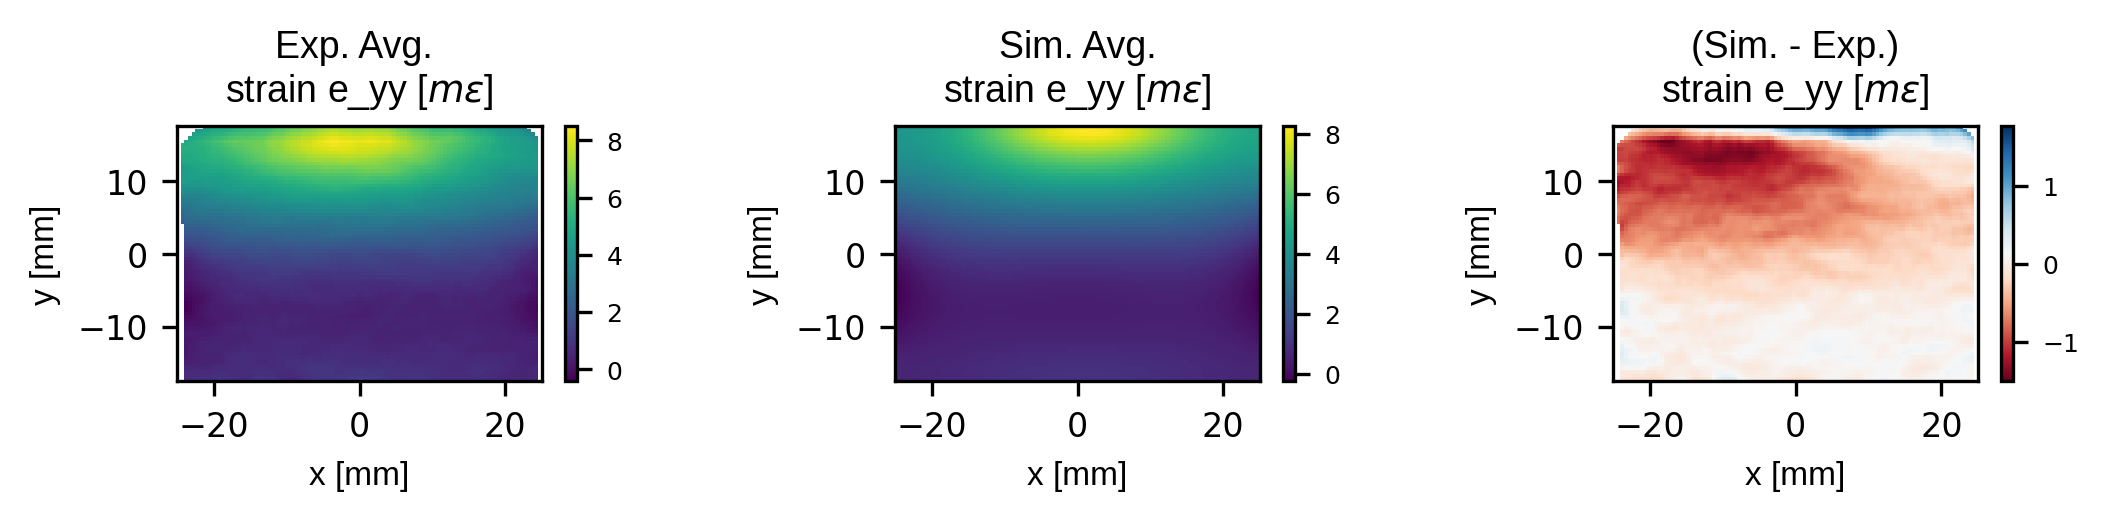
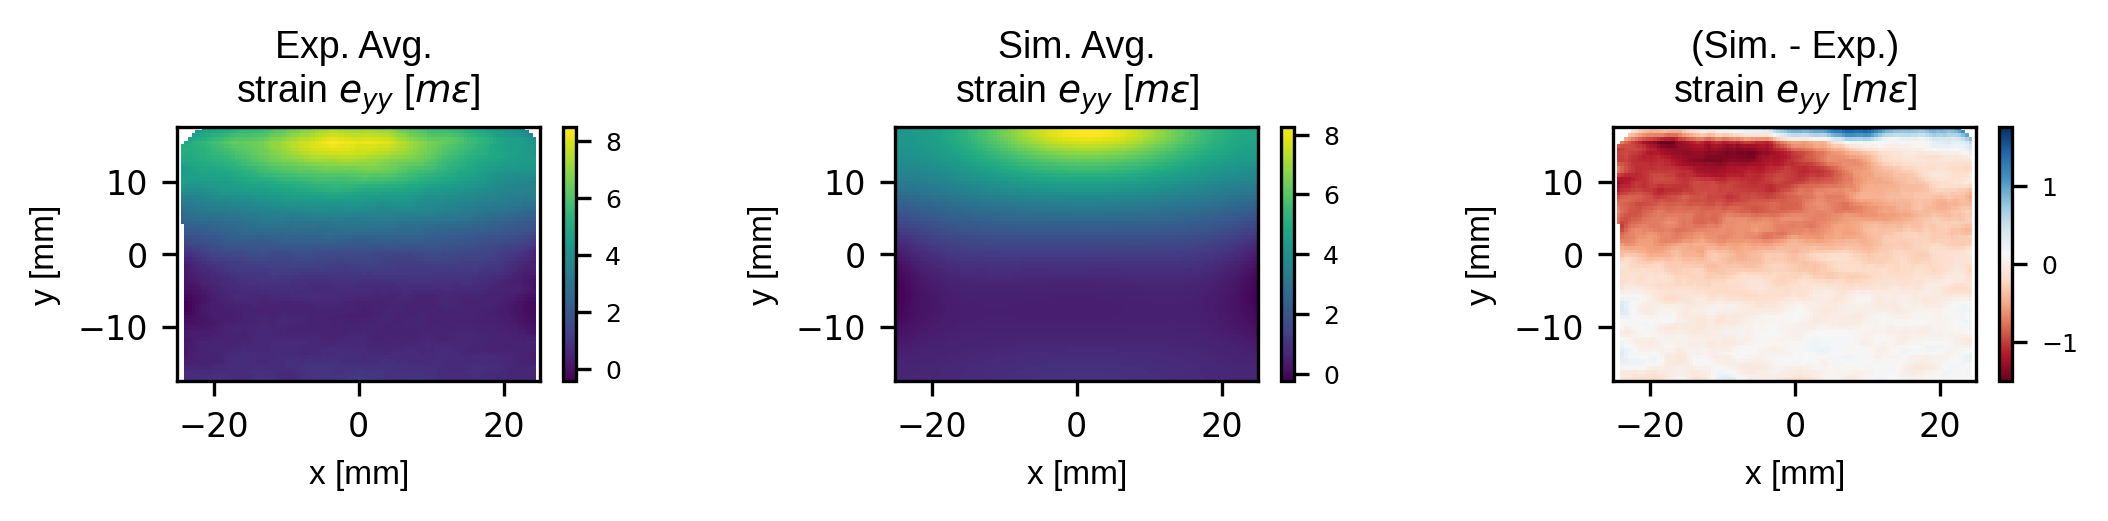
Updated strain figures for BSSM

diff --git a/scripts/main_dic_strain_pulses211_newcoords.py b/scripts/main_dic_strain_pulses211_newcoords.py
@@ -41,6 +41,7 @@ def main() -> None:
 
     FIELD_UNIT_CONV = 1e3
     FIELD_UNIT_STR = r"$m\epsilon$"
+    FIELD_AX_STRS = (r"$e_{xx}$",r"$e_{yy}$",r"$e_{xy}$")
 
     #---------------------------------------------------------------------------
     # SIM: constants
@@ -349,7 +350,7 @@ def main() -> None:
             image = ax.imshow(exp_strain_grid,
                               extent=(sim_x_min,sim_x_max,sim_y_min,sim_y_max))
             #ax.scatter(exp_coords[frame,:,0],exp_coords[frame,:,1])
-            plt.title(f"exp. strain, e_{STRAIN_COMP_STRS[aa]} [{FIELD_UNIT_STR}]")
+            plt.title(f"exp. strain, {FIELD_AX_STRS[aa]} [{FIELD_UNIT_STR}]")
             plt.colorbar(image)
             plt.savefig(
                 save_path/f"exp{DIC_PULSES[EXP_IND]}_map_{SIM_TAG}_strain_{STRAIN_COMP_STRS[aa]}.png")
@@ -364,7 +365,7 @@ def main() -> None:
             fig,ax = plt.subplots()
             image = ax.imshow(sim_strain_grid,extent=(sim_x_min,sim_x_max,sim_y_min,sim_y_max))
             #ax.scatter(sim_coords[:,0],sim_coords[:,1])
-            plt.title(f"sim. strain, e_{STRAIN_COMP_STRS[aa]} [{FIELD_UNIT_STR}]")
+            plt.title(f"sim. strain, {FIELD_AX_STRS[aa]} [{FIELD_UNIT_STR}]")
             plt.colorbar(image)
             save_fig_path = (save_path/f"sim_map_{SIM_TAG}_strain_{STRAIN_COMP_STRS[aa]}.png")
             fig.savefig(save_fig_path,dpi=300,format="png",bbox_inches="tight")
@@ -416,7 +417,7 @@ def main() -> None:
         print("Plotting avg. strain maps and sim-exp diff.")
 
         for ii,ss in zip(ax_inds,ax_strs):
-            field_str = f"strain e_{ss} [{FIELD_UNIT_STR}]"
+            field_str = f"strain {FIELD_AX_STRS[ii]} [{FIELD_UNIT_STR}]"
 
             (fig,ax) = vm.plot_avg_field_maps_nosave(
                 sim_coords,
@@ -432,7 +433,7 @@ def main() -> None:
                          / f"exp{DIC_PULSES[EXP_IND]}_{SIM_TAG}_strain_{ss}_comp.png")
             fig.savefig(save_fig_path,dpi=300,format="png",bbox_inches="tight")
 
-            field_str = f"strain e_{ss} [{FIELD_UNIT_STR}]"
+            field_str = f"strain {FIELD_AX_STRS[ii]} [{FIELD_UNIT_STR}]"
             (fig,ax) = vm.plot_avg_field_maps_nosave(
                 sim_coords,
                 sim_strain_avg,
@@ -620,7 +621,7 @@ def main() -> None:
 
             this_coord = coords_common[mavm_inds[cc],:]
             title_str = f"(x,y)=({this_coord[0]:.2f},{-1*this_coord[1]:.2f})"
-            ax_str = f"sim strain {STRAIN_COMP_STRS[cc]} [{FIELD_UNIT_STR}]"
+            ax_str = f"sim strain {FIELD_AX_STRS[cc]} [{FIELD_UNIT_STR}]"
             axs.set_title(title_str,fontsize=plot_opts.font_head_size)
             axs.set_xlabel(ax_str,fontsize=plot_opts.font_ax_size)
             axs.set_ylabel("Probability",fontsize=plot_opts.font_ax_size)
@@ -663,7 +664,7 @@ def main() -> None:
 
             this_coord = coords_common[mavm_inds[cc],:]
             title_str = f"(x,y)=({this_coord[0]:.2f},{-1*this_coord[1]:.2f})"
-            ax_str = f"strain e_{STRAIN_COMP_STRS[cc]} [{FIELD_UNIT_STR}]"
+            ax_str = f"strain {FIELD_AX_STRS[cc]} [{FIELD_UNIT_STR}]"
             axs.set_title(title_str,fontsize=plot_opts.font_head_size)
             axs.set_xlabel(ax_str,fontsize=plot_opts.font_ax_size)
             axs.set_ylabel("Probability",fontsize=plot_opts.font_ax_size)
@@ -797,7 +798,7 @@ def main() -> None:
 
         this_coord = coords_common[mavm_inds[cc],:]
         title_str = f"(x,y)=({this_coord[0]:.2f},{-1*this_coord[1]:.2f})"
-        ax_str = f"strain e_{STRAIN_COMP_STRS[cc]} [{FIELD_UNIT_STR}]"
+        ax_str = f"strain {FIELD_AX_STRS[cc]} [{FIELD_UNIT_STR}]"
         axs.set_title(title_str,fontsize=plot_opts.font_head_size)
         axs.set_xlabel(ax_str,fontsize=plot_opts.font_ax_size)
         axs.set_ylabel("Probability",fontsize=plot_opts.font_ax_size)
@@ -852,7 +853,7 @@ def main() -> None:
 
         this_coord = coords_common[mavm_inds[cc],:]
         title_str = f"(x,y)=({this_coord[0]:.2f},{-1*this_coord[1]:.2f})"
-        ax_str = f"strain e_{STRAIN_COMP_STRS[cc]} [{FIELD_UNIT_STR}]"
+        ax_str = f"strain {FIELD_AX_STRS[cc]} [{FIELD_UNIT_STR}]"
         axs.set_title(title_str,fontsize=plot_opts.font_head_size)
         axs.set_xlabel(ax_str,fontsize=plot_opts.font_ax_size)
         axs.set_ylabel("Probability",fontsize=plot_opts.font_ax_size)
@@ -1013,77 +1014,192 @@ def main() -> None:
     # Plot MAVM at follow up points
     # NOTE: y coord should be -'ve here to get to the top of block
     # NOTE: coord is flipped in cdf plots to make it look consistent
-    find_pts_yy = np.array(((-20.46,-9.92),
-                            (-21,-7.39),
-                            (20,-13),
-                            (-13,-12),))
+    find_pts = {}
+    find_pts["yy"] = np.array(((-20.0,-12.0),
+                               (20,-12),))
+    find_pts["xx"] = np.array(((-20.0,-12.0),
+                               (20,-12),))
+    find_pts["xy"] = np.array(((-15.0,0.0),
+                               (15.0,0.0)))
 
-    mavm_pts_yy = np.zeros((find_pts_yy.shape[0],),dtype=np.uintp)
-    for pp in range(find_pts_yy.shape[0]):
-        mavm_pts_yy[pp] = vm.find_nearest_points(coords_common,
-                                                    find_pts_yy[pp,:],
-                                                    k=3)[0]
+
+    mavm_pts = {}
+    for cc in STRAIN_COMP_STRS:
+        this_mavm_pts = np.zeros((find_pts[cc].shape[0],),dtype=np.uintp)
+        for pp in range(find_pts[cc].shape[0]):
+            this_mavm_pts[pp] = vm.find_nearest_points(coords_common,
+                                                        find_pts[cc][pp,:],
+                                                        k=3)[0]
+        mavm_pts[cc] = this_mavm_pts
 
     # mavm_pts_yy = vm.find_nearest_points(coords_common,
     #                                      np.array((-16.79,-8.73)),
     #                                      k=2)
 
     print(80*"-")
-    print(f"{mavm_pts_yy=}")
+    print(f"{mavm_pts['xx']=}")
+    print(f"{mavm_pts['yy']=}")
+    print(f"{mavm_pts['xy']=}")
     print(80*"-")
 
-    cc: int = 1 # xx strain component
-    for pp in mavm_pts_yy:
-        fig,axs=plt.subplots(1,1,
-                figsize=plot_opts.single_fig_size_landscape,
-                layout="constrained")
-        fig.set_dpi(plot_opts.resolution)
 
-        # SIM CDFS
-        max_e = sim_cdf_eind['max'][pp,cc]
-        axs.ecdf(sim_strain_common[max_e,:,pp,cc]
-                ,ls="--",color=sim_c,linewidth=plot_opts.lw,
-                label="sim.")
+    #cc: int = 1 # xx strain component
+    for cc,aa in enumerate(STRAIN_COMP_STRS):
+        for pp in mavm_pts[aa]:
+            #-------------------------------------------------------------------
+            # CDF COMP
+            fig,axs=plt.subplots(1,1,
+                    figsize=plot_opts.single_fig_size_landscape,
+                    layout="constrained")
+            fig.set_dpi(plot_opts.resolution)
 
-        min_e = sim_cdf_eind['min'][pp,cc]
-        axs.ecdf(sim_strain_common[min_e,:,pp,cc]
-                ,ls="--",color=sim_c,linewidth=plot_opts.lw)
+            # SIM CDFS
+            max_e = sim_cdf_eind['max'][pp,cc]
+            axs.ecdf(sim_strain_common[max_e,:,pp,cc]
+                    ,ls="--",color=sim_c,linewidth=plot_opts.lw,
+                    label="sim.")
 
-        sim_cdf_high = stats.ecdf(sim_strain_common[max_e,:,pp,cc]).cdf
-        sim_cdf_low = stats.ecdf(sim_strain_common[min_e,:,pp,cc]).cdf
-        axs.fill_betweenx(sim_cdf_high.probabilities,
-                        sim_cdf_low .quantiles,
-                        sim_cdf_high.quantiles,
-                        color=sim_c,
-                        alpha=0.2)
+            min_e = sim_cdf_eind['min'][pp,cc]
+            axs.ecdf(sim_strain_common[min_e,:,pp,cc]
+                    ,ls="--",color=sim_c,linewidth=plot_opts.lw)
 
-        axs.ecdf(exp_strain_common[:,pp,cc]
-                    ,ls="-",color=exp_c,linewidth=plot_opts.lw,
-                    label="exp.")
+            sim_cdf_high = stats.ecdf(sim_strain_common[max_e,:,pp,cc]).cdf
+            sim_cdf_low = stats.ecdf(sim_strain_common[min_e,:,pp,cc]).cdf
+            axs.fill_betweenx(sim_cdf_high.probabilities,
+                            sim_cdf_low .quantiles,
+                            sim_cdf_high.quantiles,
+                            color=sim_c,
+                            alpha=0.2)
 
-        # MAVM
-        mavm_c = "black"
-        axs.plot(mavm_d_minus_cdf_pts[:,pp,cc],# - mavm_d_minus[pp,cc],
-                    mavm_d_minus_cdf_prob[:,pp,cc], label="d-",
-                    ls="--",color=mavm_c,linewidth=plot_opts.lw*1.2)
+            axs.ecdf(exp_strain_common[:,pp,cc]
+                        ,ls="-",color=exp_c,linewidth=plot_opts.lw,
+                        label="exp.")
 
-        axs.plot(mavm_d_plus_cdf_pts[:,pp,cc],# + mavm_d_plus[pp,cc],
-                    mavm_d_plus_cdf_prob[:,pp,cc], label="d+",
-                    ls="-",color=mavm_c,linewidth=plot_opts.lw*1.2)
+            this_coord = coords_common[pp,:]
+            title_str = f"(x,y)=({this_coord[0]:.2f},{-1*this_coord[1]:.2f})"
+            ax_str = f"strain {FIELD_AX_STRS[cc]} [{FIELD_UNIT_STR}]"
+            axs.set_title(title_str,fontsize=plot_opts.font_head_size)
+            axs.set_xlabel(ax_str,fontsize=plot_opts.font_ax_size)
+            axs.set_ylabel("Probability",fontsize=plot_opts.font_ax_size)
+            axs.legend(loc="upper left",fontsize=6)
 
-        # axs.fill_betweenx(mavm_lims[aa]["max"]["F_Y"],
-        #                   mavm_lims[aa]["min"]["F_"] - mavm_lims[aa]["min"]["d-"],
-        #                   mavm_lims[aa]["max"]["F_"] + mavm_lims[aa]["max"]["d+"],
-        #                   color=mavm_c,
-        #                 alpha=0.2)
 
-        this_coord = coords_common[pp,:]
-        title_str = f"(x,y)=({this_coord[0]:.2f},{-1*this_coord[1]:.2f})"
-        ax_str = f"strain e_{STRAIN_COMP_STRS[cc]} [{FIELD_UNIT_STR}]"
-        axs.set_title(title_str,fontsize=plot_opts.font_head_size)
-        axs.set_xlabel(ax_str,fontsize=plot_opts.font_ax_size)
-        axs.set_ylabel("Probability",fontsize=plot_opts.font_ax_size)
-        axs.legend(loc="upper left",fontsize=6)
+            save_fig_path = (save_path
+                / f"mavm_exp{DIC_PULSES[EXP_IND]}_sim{SIM_TAG}_strain_{STRAIN_COMP_STRS[cc]}_cdfsonly.png")
+            fig.savefig(save_fig_path,dpi=300,format="png",bbox_inches="tight")
+
+            #-------------------------------------------------------------------
+            # MAVM
+            fig,axs=plt.subplots(1,1,
+            figsize=plot_opts.single_fig_size_landscape,
+            layout="constrained")
+            fig.set_dpi(plot_opts.resolution)
+
+            # SIM CDFS
+            max_e = sim_cdf_eind['max'][pp,cc]
+            axs.ecdf(sim_strain_common[max_e,:,pp,cc]
+                    ,ls="--",color=sim_c,linewidth=plot_opts.lw,
+                    label="sim.")
+
+            min_e = sim_cdf_eind['min'][pp,cc]
+            axs.ecdf(sim_strain_common[min_e,:,pp,cc]
+                    ,ls="--",color=sim_c,linewidth=plot_opts.lw)
+
+            sim_cdf_high = stats.ecdf(sim_strain_common[max_e,:,pp,cc]).cdf
+            sim_cdf_low = stats.ecdf(sim_strain_common[min_e,:,pp,cc]).cdf
+            axs.fill_betweenx(sim_cdf_high.probabilities,
+                            sim_cdf_low .quantiles,
+                            sim_cdf_high.quantiles,
+                            color=sim_c,
+                            alpha=0.2)
+
+            # MAVM
+            mavm_c = "black"
+            axs.plot(mavm_d_minus_cdf_pts[:,pp,cc]- mavm_d_minus[pp,cc],
+                     mavm_d_minus_cdf_prob[:,pp,cc], label="d-",
+                     ls="--",color=mavm_c,linewidth=plot_opts.lw*1.2)
+
+            axs.plot(mavm_d_plus_cdf_pts[:,pp,cc] + mavm_d_plus[pp,cc],
+                     mavm_d_plus_cdf_prob[:,pp,cc], label="d+",
+                     ls="-",color=mavm_c,linewidth=plot_opts.lw*1.2)
+
+            axs.fill_betweenx(mavm_d_plus_cdf_prob[:,pp,cc],
+                              mavm_d_minus_cdf_pts[:,pp,cc]- mavm_d_minus[pp,cc],
+                              mavm_d_plus_cdf_pts[:,pp,cc] + mavm_d_plus[pp,cc],
+                              color=mavm_c,
+                              alpha=0.2)
+
+            this_coord = coords_common[pp,:]
+            title_str = f"(x,y)=({this_coord[0]:.2f},{-1*this_coord[1]:.2f})"
+            ax_str = f"strain {FIELD_AX_STRS[cc]} [{FIELD_UNIT_STR}]"
+            axs.set_title(title_str,fontsize=plot_opts.font_head_size)
+            axs.set_xlabel(ax_str,fontsize=plot_opts.font_ax_size)
+            axs.set_ylabel("Probability",fontsize=plot_opts.font_ax_size)
+            axs.legend(loc="upper left",fontsize=6)
+
+            save_fig_path = (save_path
+                / f"mavm_exp{DIC_PULSES[EXP_IND]}_sim{SIM_TAG}_strain_{STRAIN_COMP_STRS[cc]}_simonly.png")
+            fig.savefig(save_fig_path,dpi=300,format="png",bbox_inches="tight")
+
+            #-------------------------------------------------------------------
+            # CDF COMP AND MAVM: EVERYTHING
+            fig,axs=plt.subplots(1,1,
+            figsize=plot_opts.single_fig_size_landscape,
+            layout="constrained")
+            fig.set_dpi(plot_opts.resolution)
+
+            # SIM CDFS
+            max_e = sim_cdf_eind['max'][pp,cc]
+            axs.ecdf(sim_strain_common[max_e,:,pp,cc]
+                    ,ls="--",color=sim_c,linewidth=plot_opts.lw,
+                    label="sim.")
+
+            min_e = sim_cdf_eind['min'][pp,cc]
+            axs.ecdf(sim_strain_common[min_e,:,pp,cc]
+                    ,ls="--",color=sim_c,linewidth=plot_opts.lw)
+
+            sim_cdf_high = stats.ecdf(sim_strain_common[max_e,:,pp,cc]).cdf
+            sim_cdf_low = stats.ecdf(sim_strain_common[min_e,:,pp,cc]).cdf
+            axs.fill_betweenx(sim_cdf_high.probabilities,
+                            sim_cdf_low .quantiles,
+                            sim_cdf_high.quantiles,
+                            color=sim_c,
+                            alpha=0.2)
+
+            axs.ecdf(exp_strain_common[:,pp,cc]
+                        ,ls="-",color=exp_c,linewidth=plot_opts.lw,
+                        label="exp.")
+
+            # MAVM
+            mavm_c = "black"
+            axs.plot(mavm_d_minus_cdf_pts[:,pp,cc]- mavm_d_minus[pp,cc],
+                        mavm_d_minus_cdf_prob[:,pp,cc], label="d-",
+                        ls="--",color=mavm_c,linewidth=plot_opts.lw*1.2)
+
+            axs.plot(mavm_d_plus_cdf_pts[:,pp,cc] + mavm_d_plus[pp,cc],
+                        mavm_d_plus_cdf_prob[:,pp,cc], label="d+",
+                        ls="-",color=mavm_c,linewidth=plot_opts.lw*1.2)
+
+            axs.fill_betweenx(mavm_d_plus_cdf_prob[:,pp,cc],
+                              mavm_d_minus_cdf_pts[:,pp,cc]- mavm_d_minus[pp,cc],
+                              mavm_d_plus_cdf_pts[:,pp,cc] + mavm_d_plus[pp,cc],
+                              color=mavm_c,
+                              alpha=0.2)
+
+            this_coord = coords_common[pp,:]
+            title_str = f"(x,y)=({this_coord[0]:.2f},{-1*this_coord[1]:.2f})"
+
+            ax_str = f"strain {FIELD_AX_STRS[cc]} [{FIELD_UNIT_STR}]"
+            axs.set_title(title_str,fontsize=plot_opts.font_head_size)
+            axs.set_xlabel(ax_str,fontsize=plot_opts.font_ax_size)
+            axs.set_ylabel("Probability",fontsize=plot_opts.font_ax_size)
+            axs.legend(loc="upper left",fontsize=6)
+
+            save_fig_path = (save_path
+                / f"mavm_exp{DIC_PULSES[EXP_IND]}_sim{SIM_TAG}_strain_{STRAIN_COMP_STRS[cc]}_ALL.png")
+            fig.savefig(save_fig_path,dpi=300,format="png",bbox_inches="tight")
+
+
 
     plt.close("all")
 
@@ -1092,10 +1208,9 @@ def main() -> None:
     # FUNCTION INPUTS
     ax_ind = yy
     scale_cbar = True
-    field_strs = (r"$e_{xx}$",r"$e_{yy}$",r"$e_{xy}$")
 
     for ax_ind,ax_str in enumerate(STRAIN_COMP_STRS):
-        field_str = field_strs[ax_ind]
+        field_str = FIELD_AX_STRS[ax_ind]
 
         sim_x_min = np.min(sim_coords[:,0])
         sim_x_max = np.max(sim_coords[:,0])
@@ -1167,7 +1282,8 @@ def main() -> None:
 
         mavm_map = np.reshape(mavm_d_max[:,ax_ind],grid_shape)
         image = ax[3].imshow(mavm_map,
-            extent=(sim_x_min,sim_x_max,sim_y_min,sim_y_max),)
+            extent=(sim_x_min,sim_x_max,sim_y_min,sim_y_max),
+            cmap="plasma")
         d_max_str = r"$d_{max}$"
         ax[3].set_title(f"MAVM {d_max_str}\n{field_str} [{FIELD_UNIT_STR}]",
                         fontsize=plot_opts.font_head_size, fontname=plot_opts.font_name)

diff --git a/papers/fec2025_validationmetrics.md b/papers/fec2025_validationmetrics.md
@@ -11,7 +11,7 @@
 ## Validation Analysis
 In this work, we define validation as the process of determining the degree to which the model represents the true outcome that occurs in the real world. Experimental data is often taken as our best representation of the real world so we have cond
 
-There is a wide variety of approaches for assessing the predictive capability of models [REF]. One approach is to construct a 'validation metric' which is a .
+There is a wide variety of approaches for assessing the predictive capability of models [REF]. One approach is to construct a 'validation metric' which is a measure of distance between the model prediction and available experimental data taken to be .
 
 Validation analysis
 
